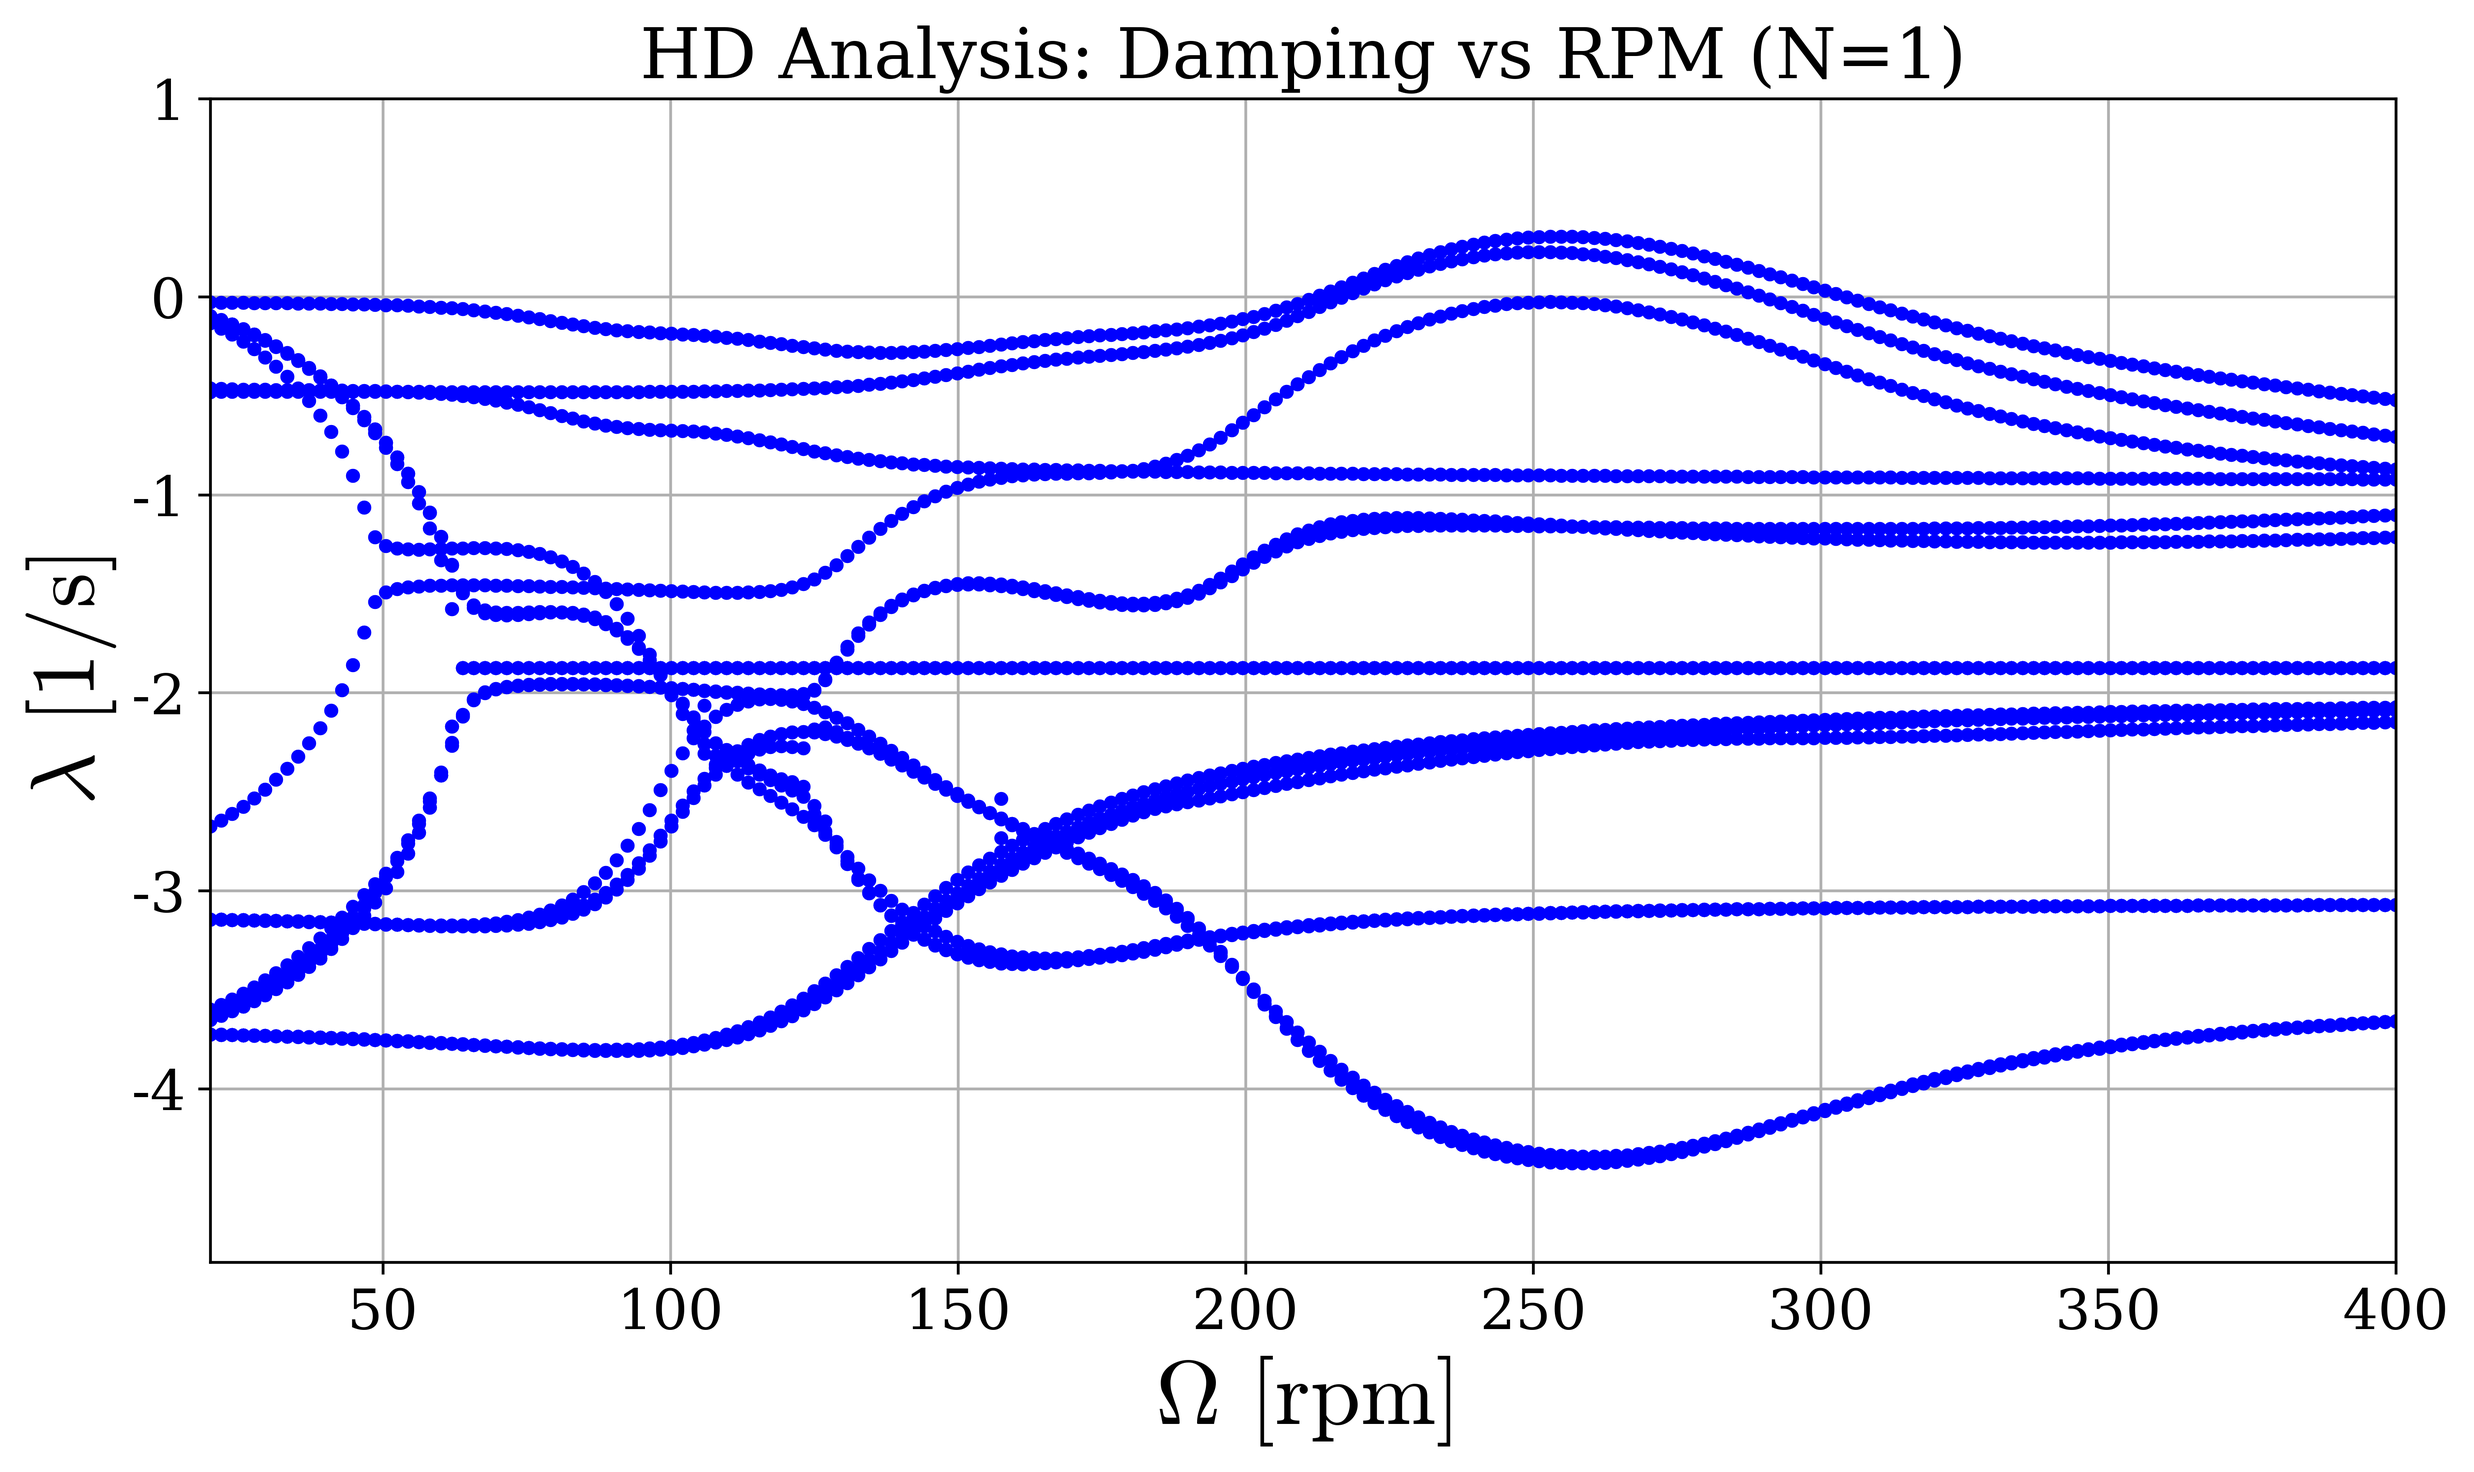
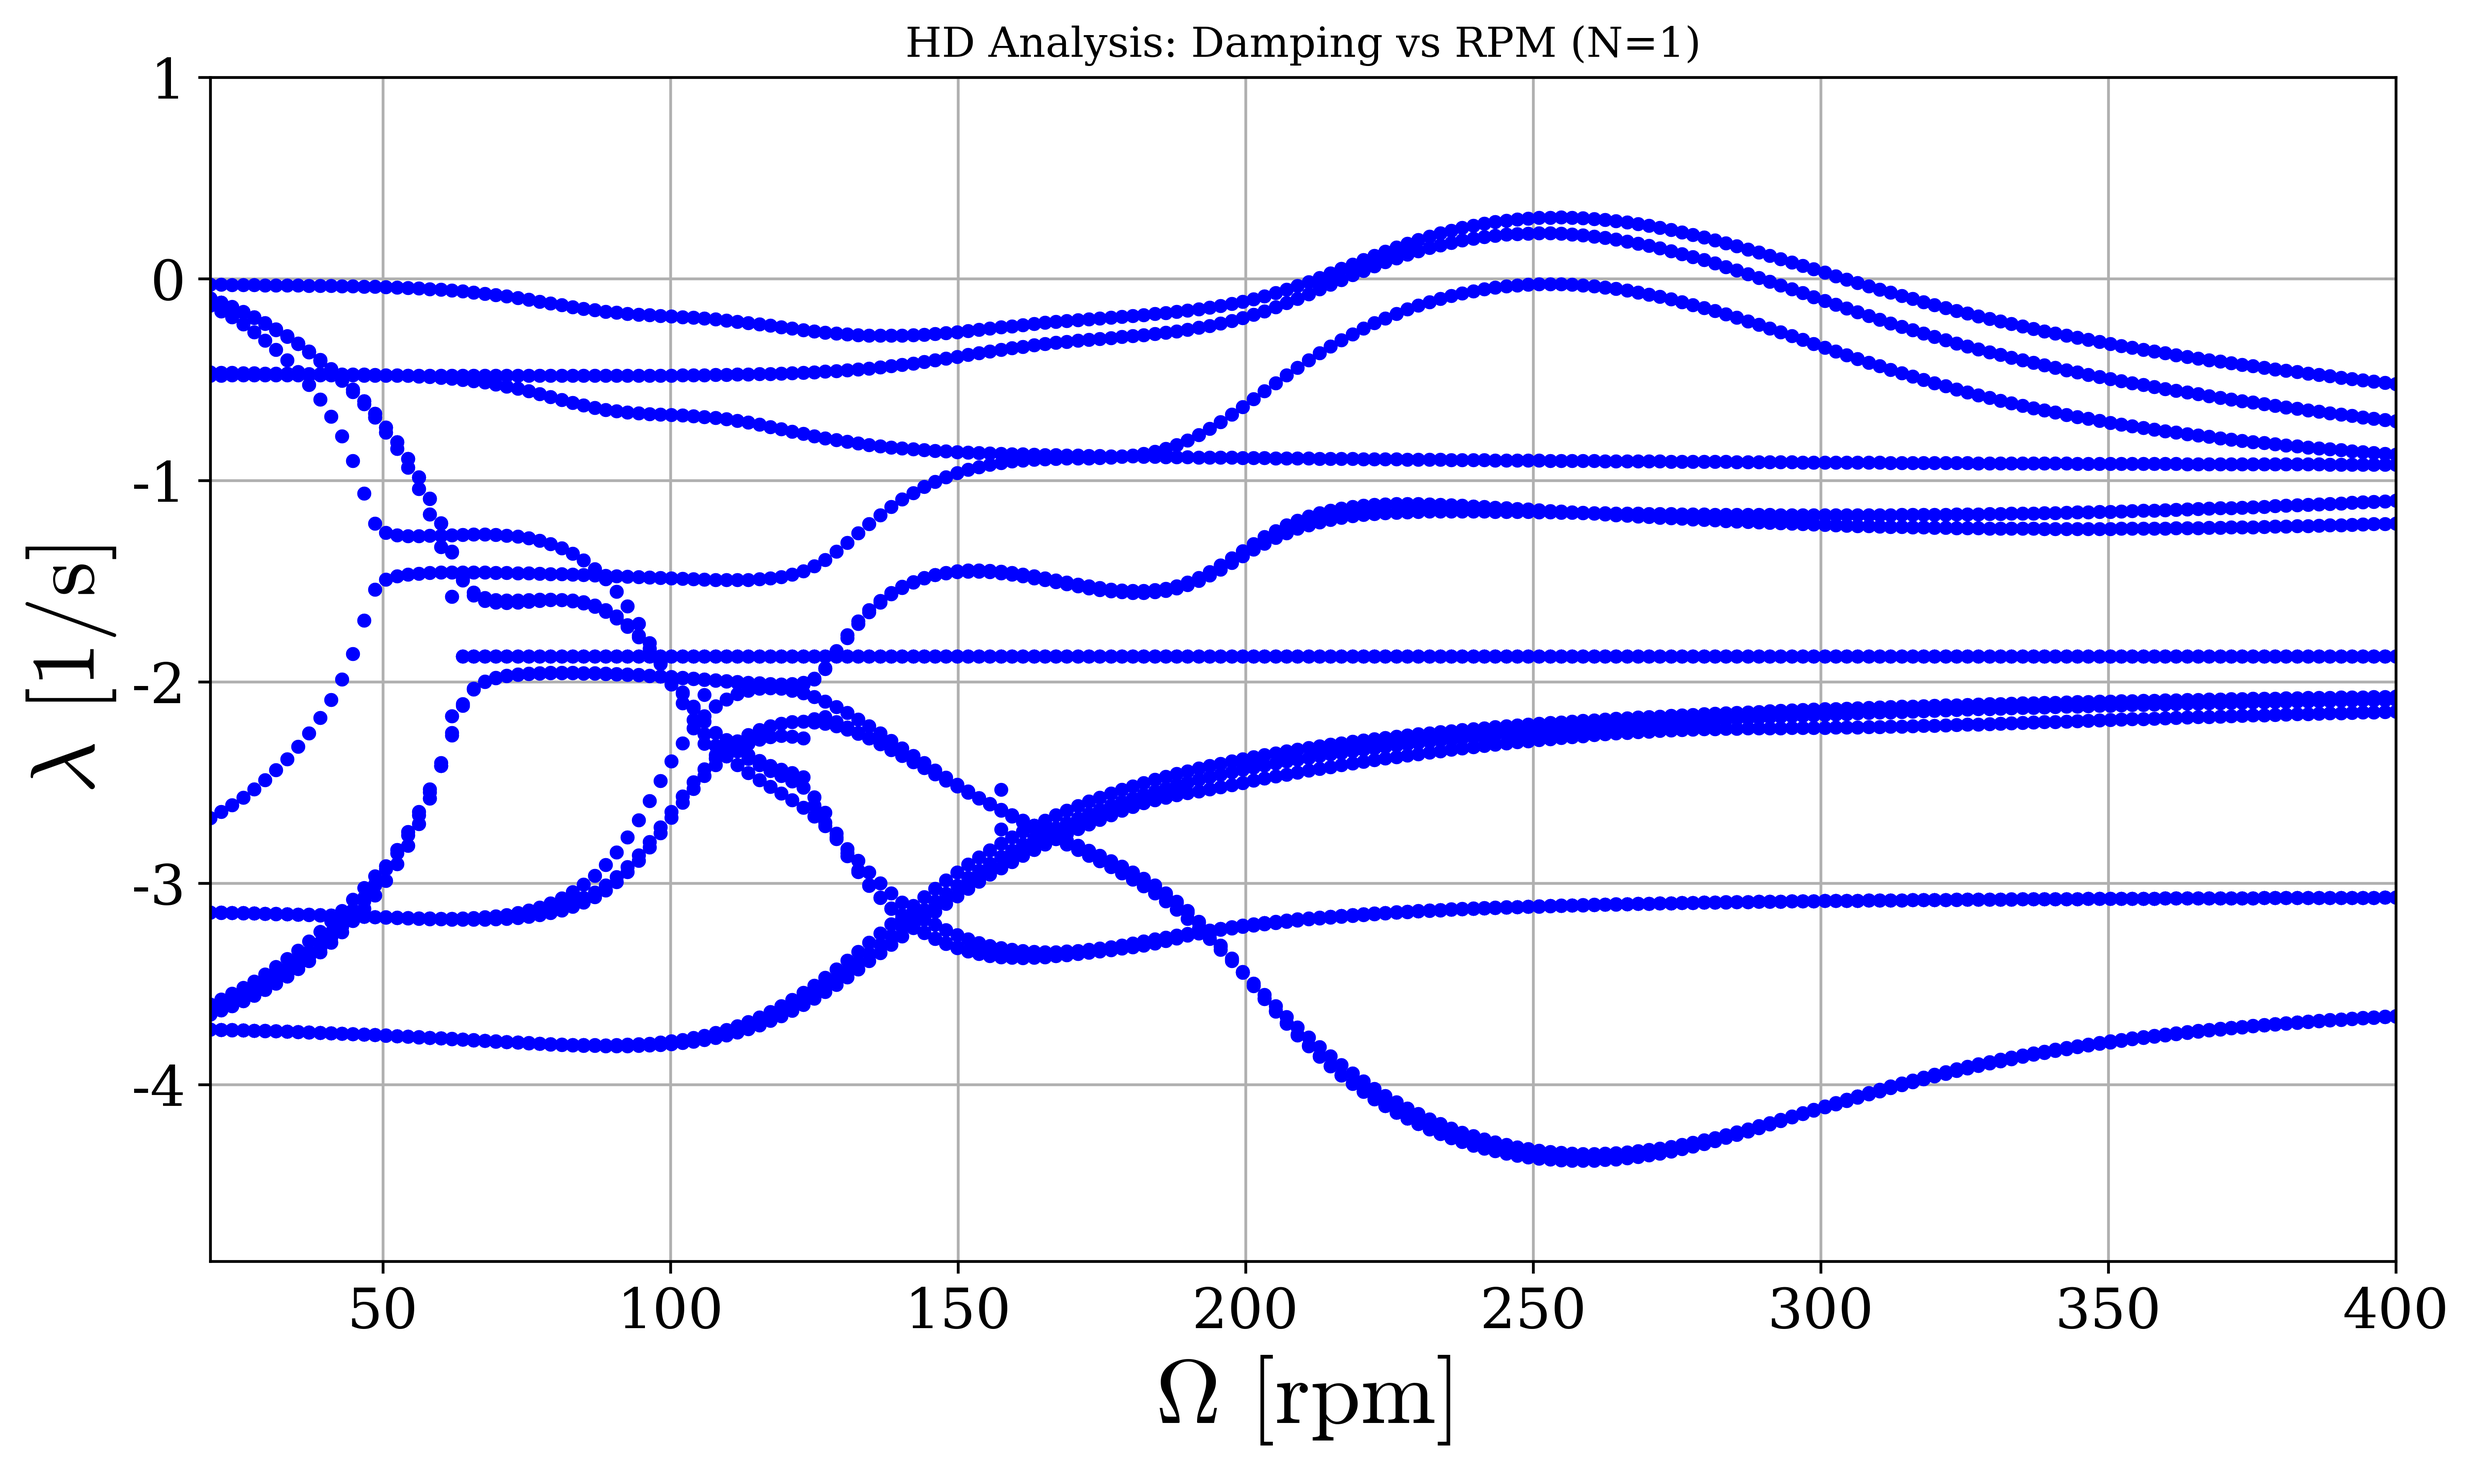
updated hd complex function to accept samples of A

diff --git a/src/stability_analysis/base.py b/src/stability_analysis/base.py
@@ -228,7 +228,7 @@ class StabilityAnalysis:
     
     @staticmethod
     def hd_computer(
-        A_handle: Callable[[float, float], np.ndarray],
+        A_computed: np.ndarray,
         OMEGA: float,
         number_harmonics: int,
         time_samples: int,
@@ -240,7 +240,7 @@ class StabilityAnalysis:
         Fourier coefficients of the time-periodic state matrix A(Ω,t).
 
         Args:
-            A_handle: Function handle A(OMEGA, t) that returns the n×n state matrix
+            A_computed: Function handle A(OMEGA, t) that returns the n×n state matrix
                 at angular velocity OMEGA and time t
             OMEGA: Angular velocity (rad/s). Period is computed as T = 2π/OMEGA
             number_harmonics: Number of harmonics to include
@@ -255,9 +255,9 @@ class StabilityAnalysis:
 
         Example:
         -------
-        >>> A_handle = lambda Om, t: np.array([[0, 1], [-1 - 0.1*np.sin(Om*t), -0.1]])
+        >>> A_computed = lambda Om, t: np.array([[0, 1], [-1 - 0.1*np.sin(Om*t), -0.1]])
         >>> OMEGA = 1.0  # rad/s
-        >>> A_HD = StabilityAnalysis.hd_computer(A_handle, OMEGA, number_harmonics=2, time_samples=100)
+        >>> A_HD = StabilityAnalysis.hd_computer(A_computed, OMEGA, number_harmonics=2, time_samples=100)
         >>> eigenvalues = np.linalg.eigvals(A_HD)
         """
         # Input validation
@@ -274,27 +274,28 @@ class StabilityAnalysis:
         period_T = 2 * np.pi / OMEGA
         time = np.linspace(0, period_T, time_samples)
 
-        try:
-            A_0 = A_handle(OMEGA, 0)
-        except Exception as e:
-            raise ValueError(f"A_handle(OMEGA, 0) failed: {e}")
+        if callable(A_computed):
+            try:
+                A_0 = A_computed(OMEGA, 0)
+            except Exception as e:
+                raise ValueError(f"A_computed(OMEGA, 0) failed: {e}")
 
-        if A_0 is None:
-            raise ValueError("A_handle(OMEGA, 0) returned None")
+            if A_0 is None:
+                raise ValueError("A_computed(OMEGA, 0) returned None")
 
-        if not isinstance(A_0, np.ndarray):
-            raise ValueError(f"A_handle must return numpy array, got {type(A_0)}")
+            if not isinstance(A_0, np.ndarray):
+                raise ValueError(f"A_computed must return numpy array, got {type(A_0)}")
 
-        if A_0.ndim != 2:
-            raise ValueError(f"A_handle must return 2D array, got {A_0.ndim}D")
+            if A_0.ndim != 2:
+                raise ValueError(f"A_computed must return 2D array, got {A_0.ndim}D")
 
-        if A_0.shape[0] != A_0.shape[1]:
-            raise ValueError(f"A_handle must return square matrix, got shape {A_0.shape}")
-
+            if A_0.shape[0] != A_0.shape[1]:
+                raise ValueError(f"A_computed must return square matrix, got shape {A_0.shape}")
+        
         # Dispatch to complex or real formulation
         if use_complex:
             return StabilityAnalysis.hd_computer_complex(
-                A_handle, OMEGA, number_harmonics, time_samples
+                A_computed, OMEGA, number_harmonics, time_samples
             )
 
         state_number = A_0.shape[0]
@@ -302,7 +303,7 @@ class StabilityAnalysis:
         A_HD = np.zeros((size_A_HD, size_A_HD))
 
         # Compute time realizations of A(OMEGA, t) - vectorized for better performance
-        time_realisation_A = np.array([A_handle(OMEGA, t) for t in time])
+        time_realisation_A = np.array([A_computed(OMEGA, t) for t in time])
         # Transpose to shape (state_number, state_number, len(time))
         time_realisation_A = np.transpose(time_realisation_A, (1, 2, 0))
 
@@ -409,7 +410,7 @@ class StabilityAnalysis:
 
     @staticmethod
     def hd_computer_complex(
-        A_handle: Callable[[float, float], np.ndarray],
+        A_computed:  np.ndarray,
         OMEGA: float,
         number_harmonics: int,
         time_samples: int
@@ -421,7 +422,7 @@ class StabilityAnalysis:
         internally by hd_computer when use_complex=True.
 
         Args:
-            A_handle: Function handle A(OMEGA, t) that returns the n×n state matrix
+            A_computed: Function handle A(OMEGA, t) that returns the n×n state matrix
                 at angular velocity OMEGA and time t
             OMEGA: Angular velocity (rad/s). Period is computed as T = 2π/OMEGA
             number_harmonics: Number of harmonics to include
@@ -432,19 +433,26 @@ class StabilityAnalysis:
         """
         # Compute period and time vector
         period_T = 2 * np.pi / OMEGA
-        time = np.linspace(0, period_T, time_samples)
 
-        state_number = A_handle(OMEGA, 0).shape[0]
+        if callable(A_computed):
+            time = np.linspace(0, period_T, time_samples)
+            state_number = A_computed(OMEGA, 0).shape[0]
+        else:
+            state_number = A_computed.shape[0]
+
         size_A_HD = (1 + 2 * number_harmonics) * state_number
         A_HD = np.zeros((size_A_HD, size_A_HD), dtype=complex)
 
-        # Compute time realizations of A(OMEGA, t) - vectorized for better performance
-        time_realisation_A = np.array([A_handle(OMEGA, t) for t in time])
-        # Transpose to shape (state_number, state_number, len(time))
-        time_realisation_A = np.transpose(time_realisation_A, (1, 2, 0))
-
-        # Compute FFT coefficients (vectorized along time axis)
-        A_coeff = np.fft.fft(time_realisation_A, axis=2) / len(time)
+        if callable(A_computed):
+            # Compute time realizations of A(OMEGA, t) - vectorized for better performance
+            time_realisation_A = np.array([A_computed(OMEGA, t) for t in time])
+            # Transpose to shape (state_number, state_number, len(time))
+            time_realisation_A = np.transpose(time_realisation_A, (1, 2, 0))
+            # Compute FFT coefficients (vectorized along time axis)
+            A_coeff = np.fft.fft(time_realisation_A, axis=2) / len(time)
+        else:
+            # If A_computed is already a 3D array of shape (state_number, state_number, time_samples)
+            A_coeff = np.fft.fft(A_computed, axis=2) / A_computed.shape[2]
 
         # k is used to cycle the harmonics from -N to N (columns)
         # j is used to cycle the blocks in the A matrix (rows)
